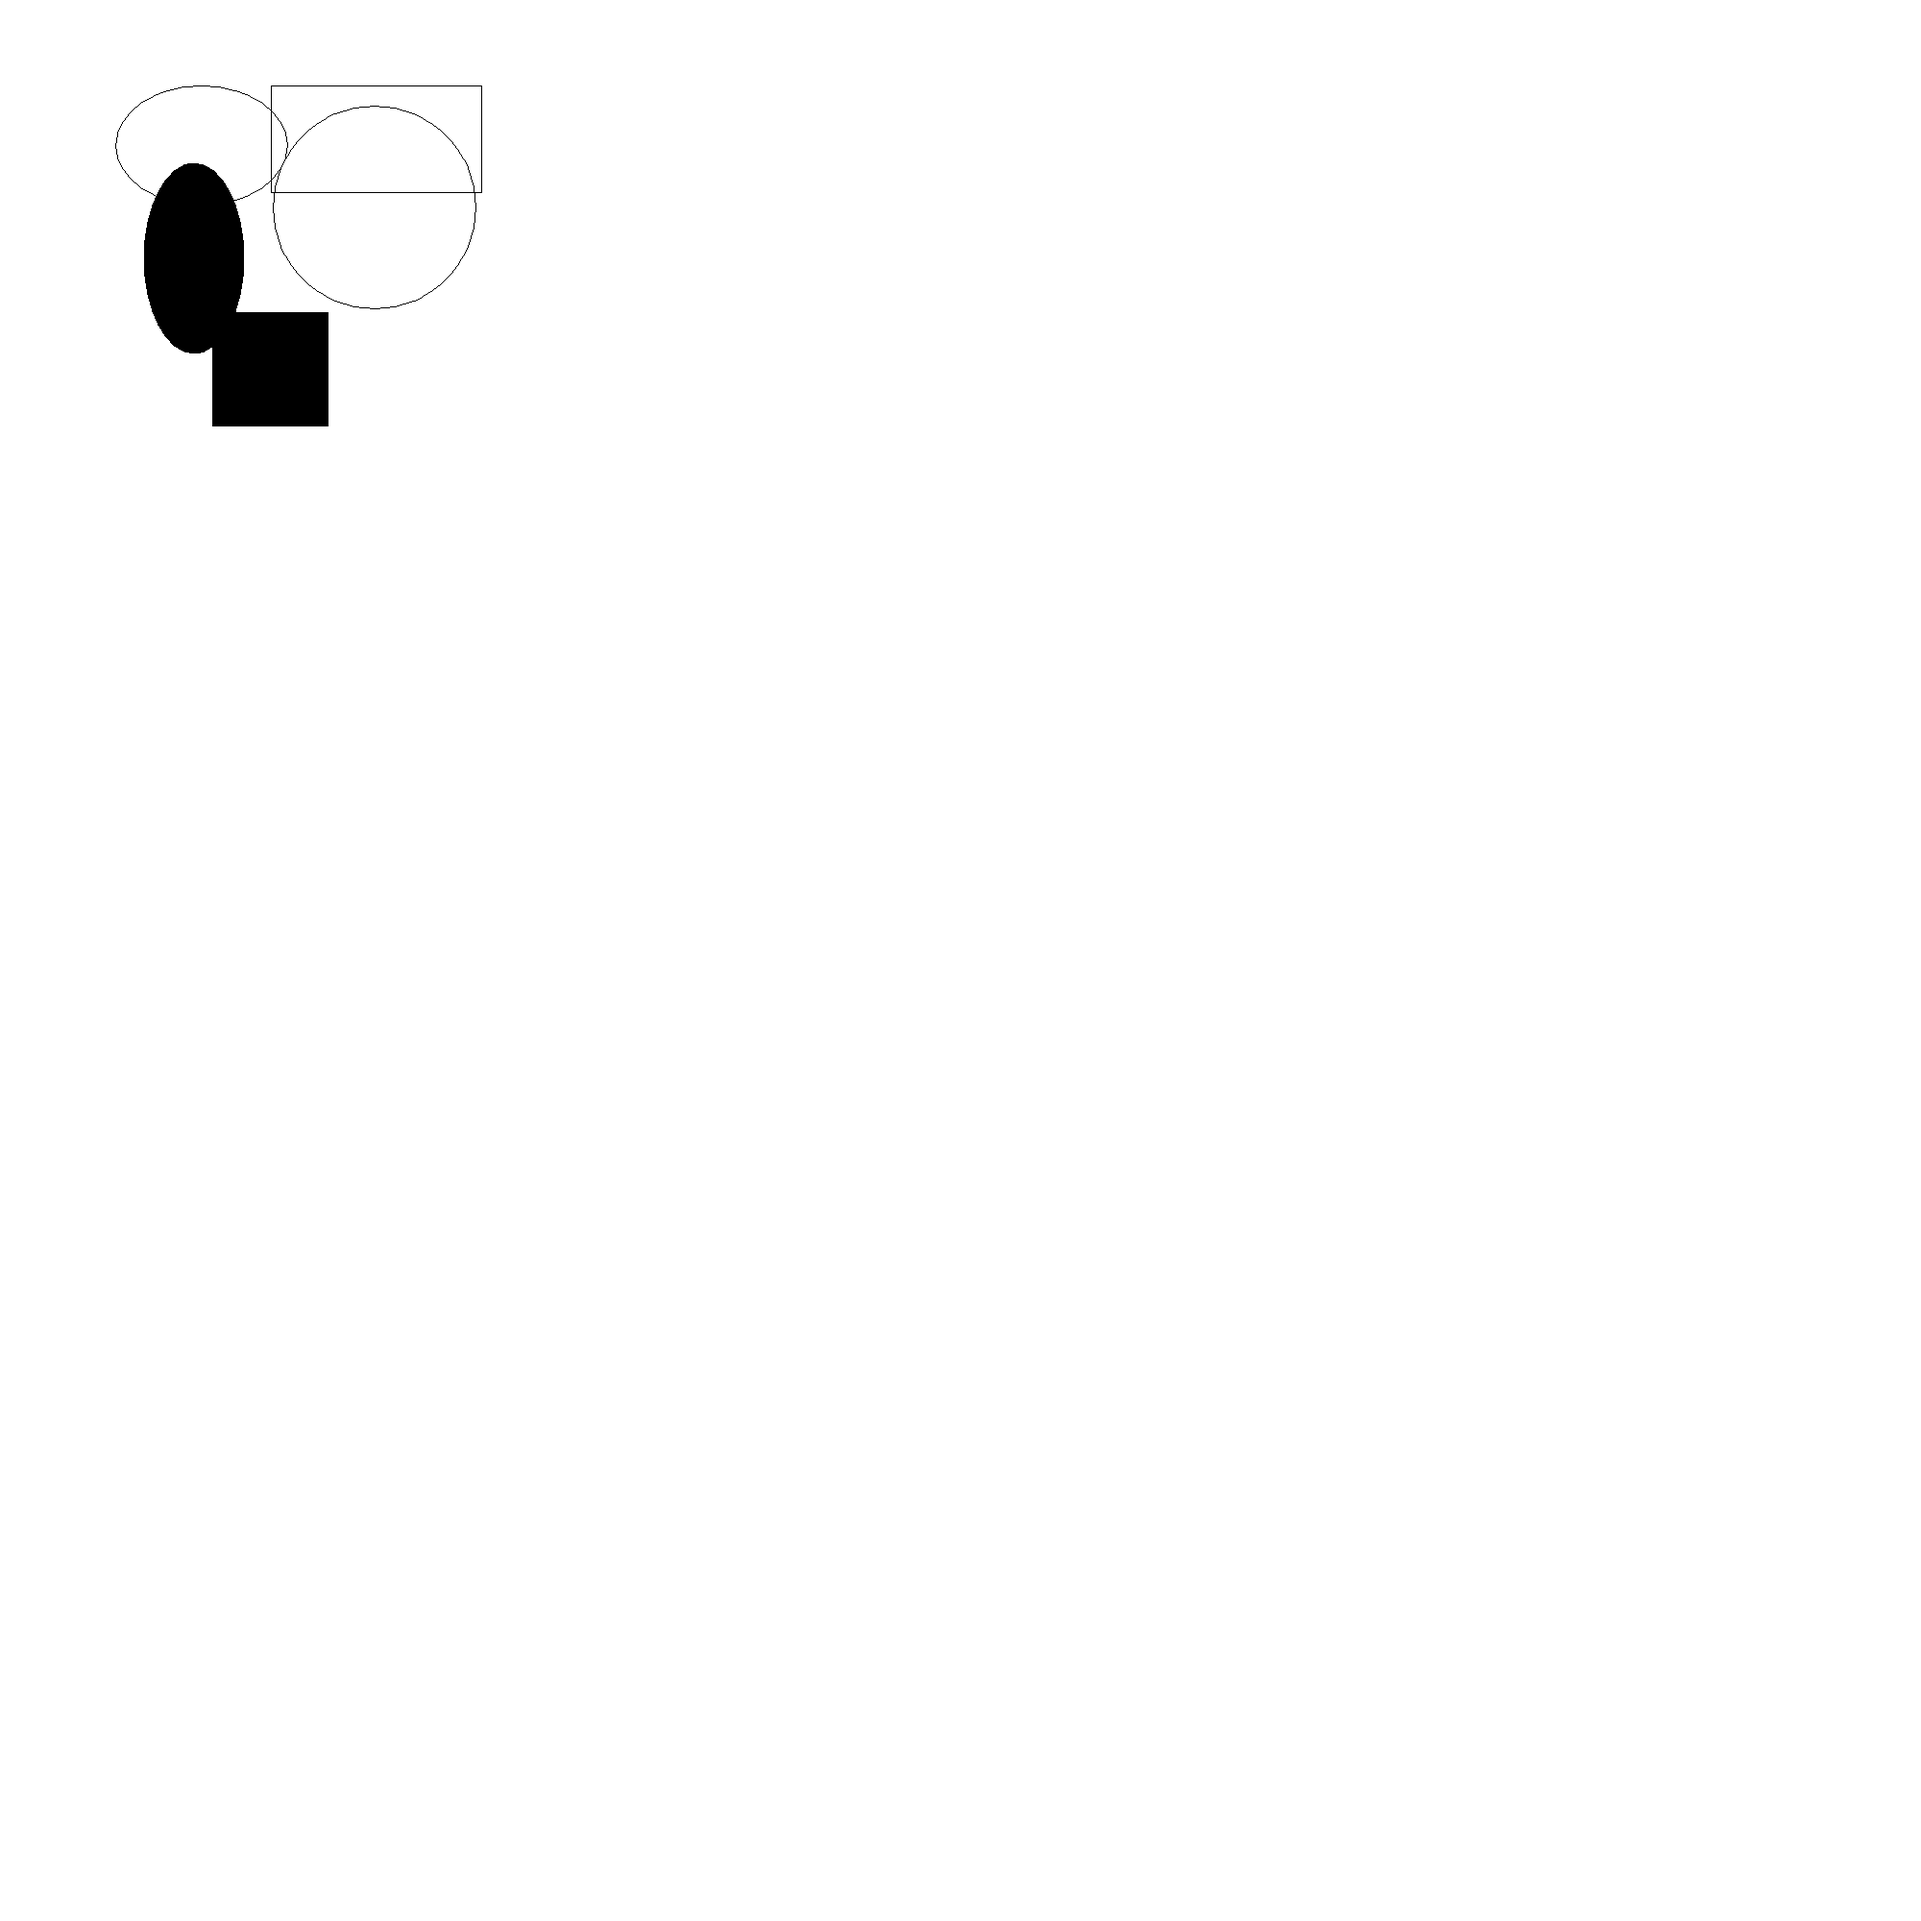
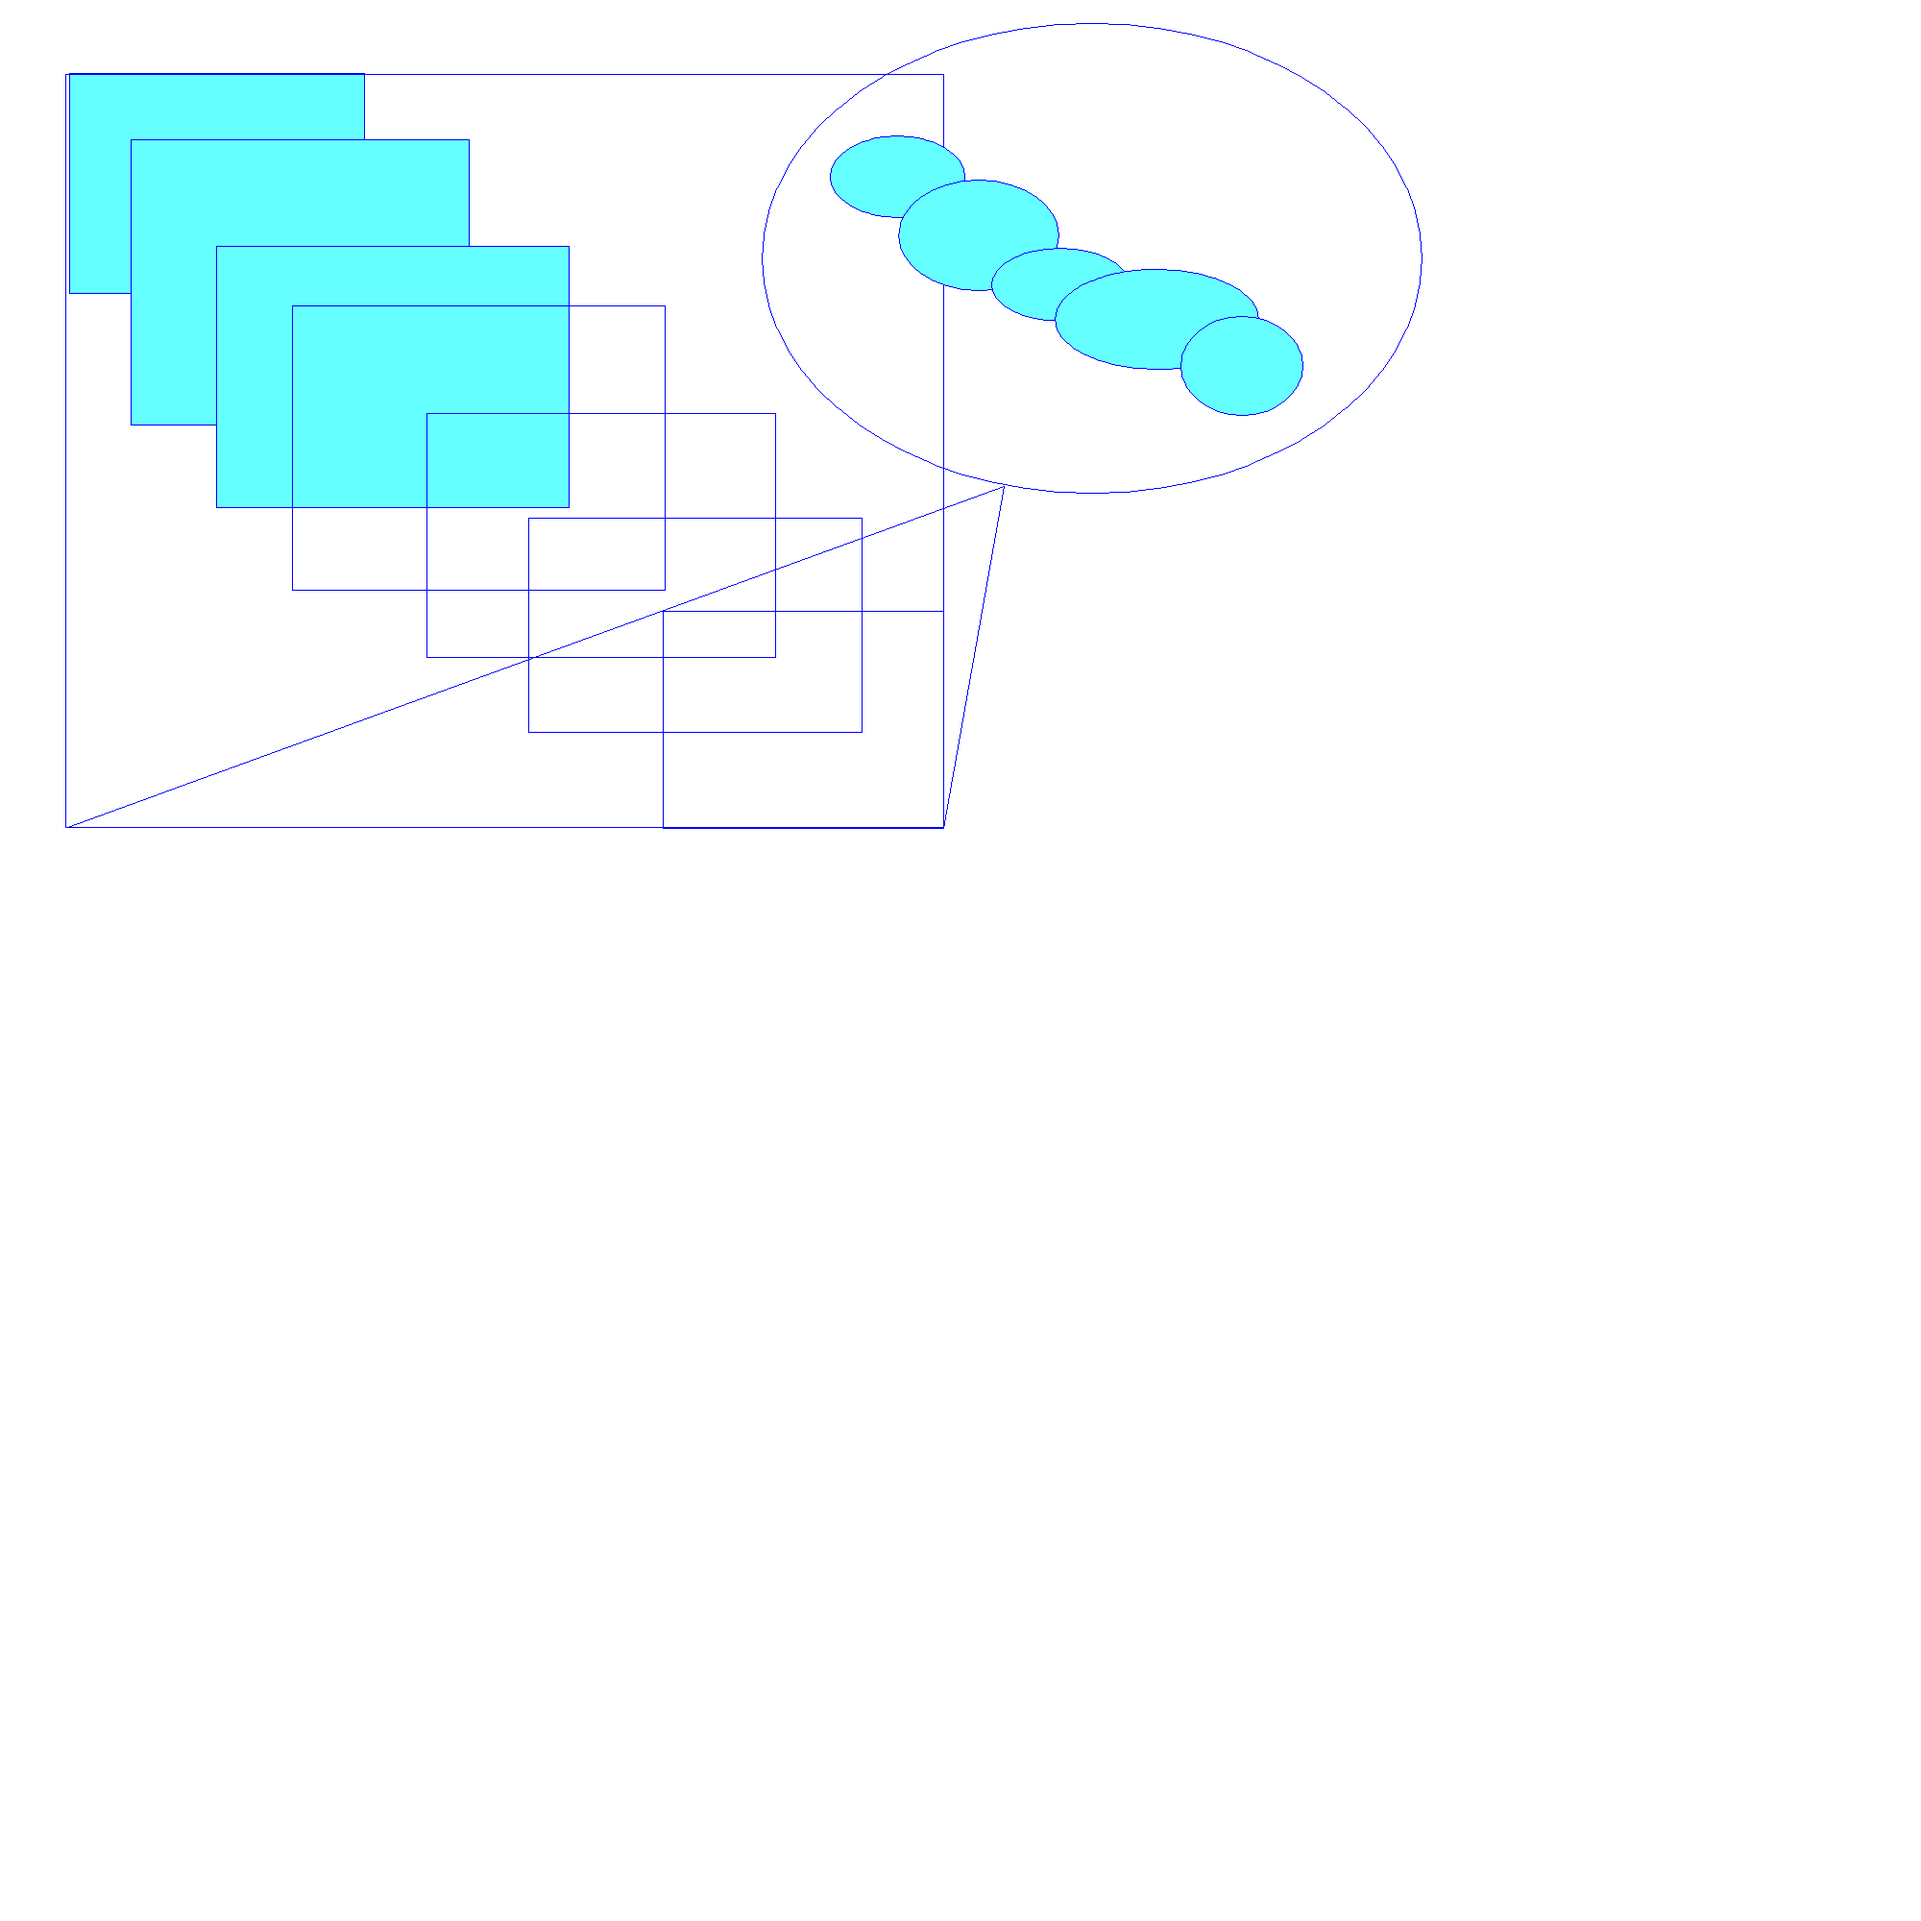
Can paint shapes with outline different than fill color

Changed region(s): [[0.031, 0.031, 0.31, 0.279], [0.434, 0.062, 0.682, 0.217]]

diff --git a/Paint/src/main/MousePanel.java b/Paint/src/main/MousePanel.java
@@ -136,11 +136,35 @@ public class MousePanel extends JPanel implements MouseListener, MouseMotionList
 				height = sPoint.y-ePoint.y; }}
 		switch(button){  
 		case 0: break;
-		case 1: buffer2.setColor(ColorPanel.getInstance().getColor(0)); buffer2.fillRect(x1, y1, width, height);  break;		
-		case 2: buffer2.setColor(ColorPanel.getInstance().getColor(1)); buffer2.drawRect(x1, y1, width, height);  break; 
-		case 3: buffer2.setColor(ColorPanel.getInstance().getColor(0)); buffer2.fillOval(x1, y1, width, height);  break; 	
-		case 4: buffer2.setColor(ColorPanel.getInstance().getColor(1)); buffer2.drawOval(x1, y1, width, height);  break;	
-		case 5: buffer2.setColor(ColorPanel.getInstance().getColor(1)); buffer2.drawLine(sPoint.x, sPoint.y, ePoint.x, ePoint.y); break;
+		case 1: {
+			buffer2.setColor(ColorPanel.getInstance().getColor(0)); 
+			buffer2.fillRect(x1, y1, width, height);
+			buffer2.setColor(ColorPanel.getInstance().getColor(1));
+			buffer2.drawRect(x1, y1, width, height);
+			break;		
+		}
+		case 2: {
+			buffer2.setColor(ColorPanel.getInstance().getColor(1)); 
+			buffer2.drawRect(x1, y1, width, height);  
+			break; 
+		}
+		case 3: {
+			buffer2.setColor(ColorPanel.getInstance().getColor(0)); 
+			buffer2.fillOval(x1, y1, width, height);
+			buffer2.setColor(ColorPanel.getInstance().getColor(1));
+			buffer2.drawOval(x1, y1, width, height);
+			break; 	
+		}
+		case 4: {
+			buffer2.setColor(ColorPanel.getInstance().getColor(1)); 
+			buffer2.drawOval(x1, y1, width, height);  
+			break;	
+		}
+		case 5: {
+			buffer2.setColor(ColorPanel.getInstance().getColor(1)); 
+			buffer2.drawLine(sPoint.x, sPoint.y, ePoint.x, ePoint.y); 
+			break;
+		}
 		default: break; }
 		buffer2.dispose();
 		System.gc(); 	//Solves the issue of having a ton of Buffered Images stuck in the memory for the live preview.  I wish there was a better way
@@ -158,11 +182,35 @@ public class MousePanel extends JPanel implements MouseListener, MouseMotionList
 		fixDirections();
 		switch(button){   //Switch on which button was pressed
 		case 0: break;
-		case 1: buffer.setColor(ColorPanel.getInstance().getColor(0)); buffer.fillRect(sPoint.x, sPoint.y, ePoint.x-sPoint.x, ePoint.y-sPoint.y);  break;		// Draw filled rectangle
-		case 2: buffer.setColor(ColorPanel.getInstance().getColor(1)); buffer.drawRect(sPoint.x, sPoint.y, ePoint.x-sPoint.x, ePoint.y-sPoint.y);  break; 		// Draw empty rectangle
-		case 3: buffer.setColor(ColorPanel.getInstance().getColor(0)); buffer.fillOval(sPoint.x, sPoint.y, ePoint.x-sPoint.x, ePoint.y-sPoint.y);  break; 		// Draw filled oval
-		case 4: buffer.setColor(ColorPanel.getInstance().getColor(1)); buffer.drawOval(sPoint.x, sPoint.y, ePoint.x-sPoint.x, ePoint.y-sPoint.y);  break;		// Draw empty oval
-		case 5: buffer.setColor(ColorPanel.getInstance().getColor(1)); buffer.drawLine(sPoint.x, sPoint.y, ePoint.x, ePoint.y); break; 							// Draw Line
+		case 1: {
+			buffer.setColor(ColorPanel.getInstance().getColor(0)); 
+			buffer.fillRect(sPoint.x, sPoint.y, ePoint.x-sPoint.x, ePoint.y-sPoint.y); 
+			buffer.setColor(ColorPanel.getInstance().getColor(1)); 
+			buffer.drawRect(sPoint.x, sPoint.y, ePoint.x-sPoint.x, ePoint.y-sPoint.y); 
+			break;		// Draw filled rectangle
+		}
+		case 2: {
+			buffer.setColor(ColorPanel.getInstance().getColor(1)); 
+			buffer.drawRect(sPoint.x, sPoint.y, ePoint.x-sPoint.x, ePoint.y-sPoint.y);  
+			break; 		// Draw empty rectangle
+		}
+		case 3: {
+			buffer.setColor(ColorPanel.getInstance().getColor(0)); 
+			buffer.fillOval(sPoint.x, sPoint.y, ePoint.x-sPoint.x, ePoint.y-sPoint.y);  
+			buffer.setColor(ColorPanel.getInstance().getColor(1));
+			buffer.drawOval(sPoint.x, sPoint.y, ePoint.x-sPoint.x, ePoint.y-sPoint.y); 
+			break; 		// Draw filled oval
+		}
+		case 4: {
+			buffer.setColor(ColorPanel.getInstance().getColor(1)); 
+			buffer.drawOval(sPoint.x, sPoint.y, ePoint.x-sPoint.x, ePoint.y-sPoint.y);  
+			break;		// Draw empty oval
+		}
+		case 5: {
+			buffer.setColor(ColorPanel.getInstance().getColor(1)); 
+			buffer.drawLine(sPoint.x, sPoint.y, ePoint.x, ePoint.y); 
+			break; 							// Draw Line
+		}
 		default: break; } 
 		}
 
